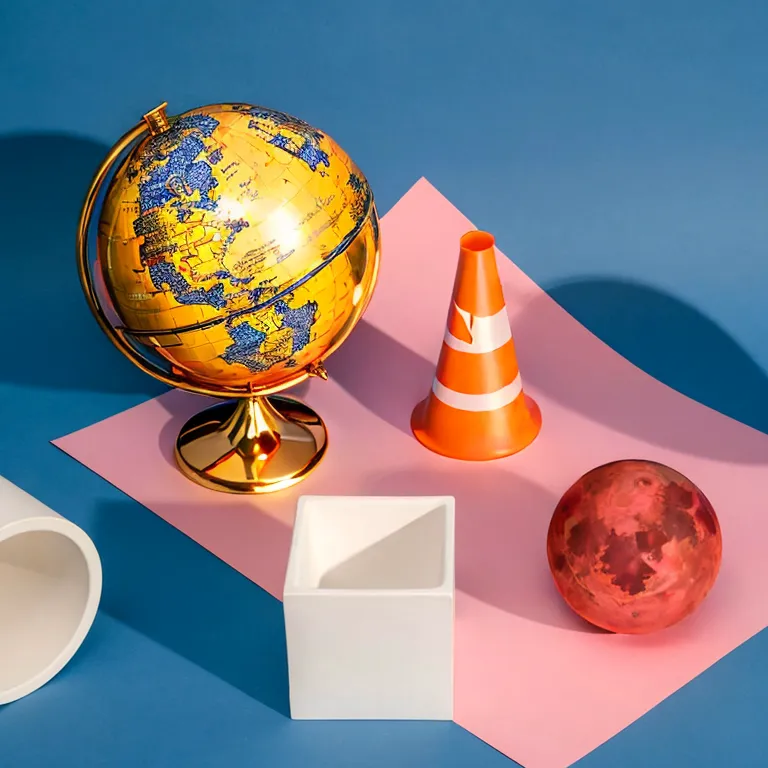
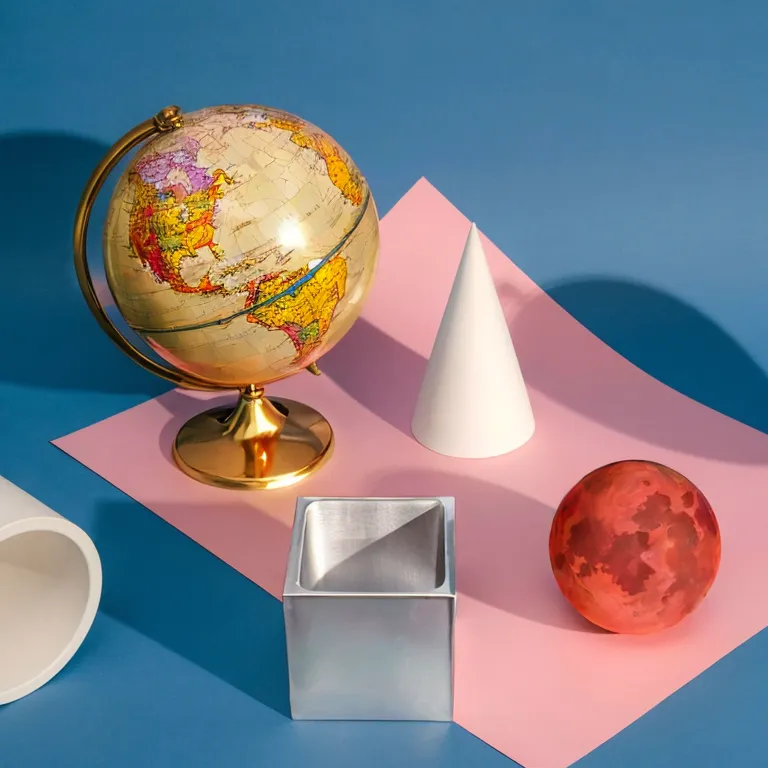
chore: change iamge

Changed region(s): [[0.0938, 0.125, 0.9375, 0.9688], [0.75, 0.5938, 0.7812, 0.625]]

diff --git a/index.html b/index.html
@@ -242,7 +242,7 @@
                 <p style="text-align: center;">
                   blue globe → <strong>gold globe</strong> <br>
                   orange globe → <strong>red moon</strong> <br>
-                  cone → <strong>traffic cone</strong>
+                  box → <strong>steel box</strong>
                 </p>
               </div>
           </div>
